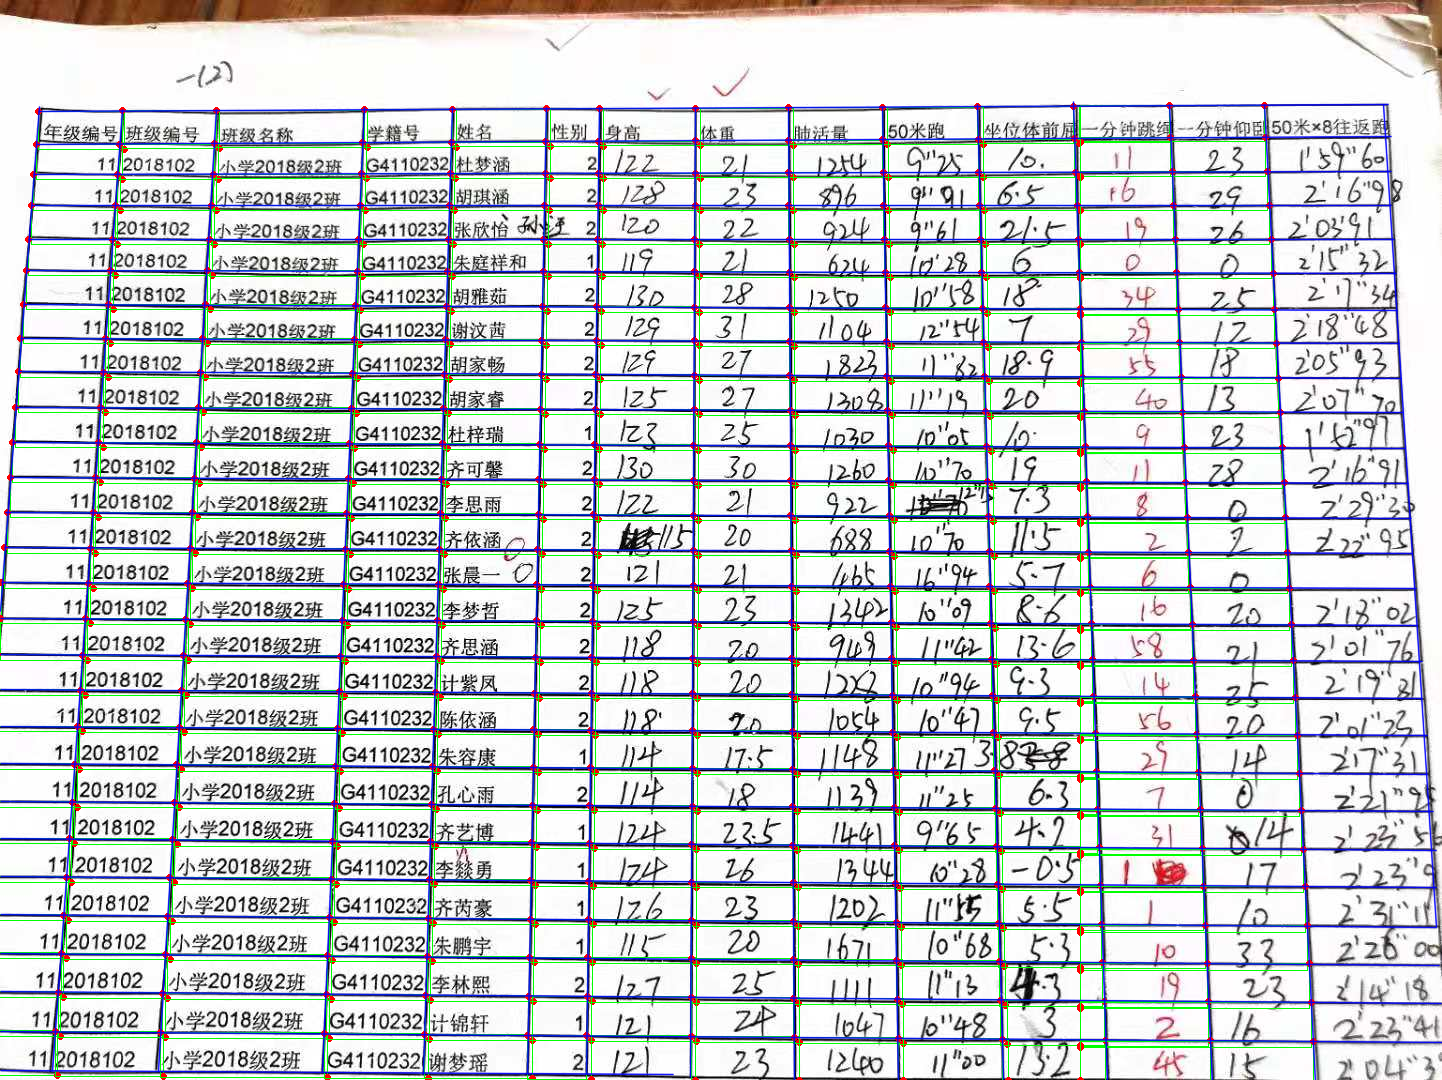
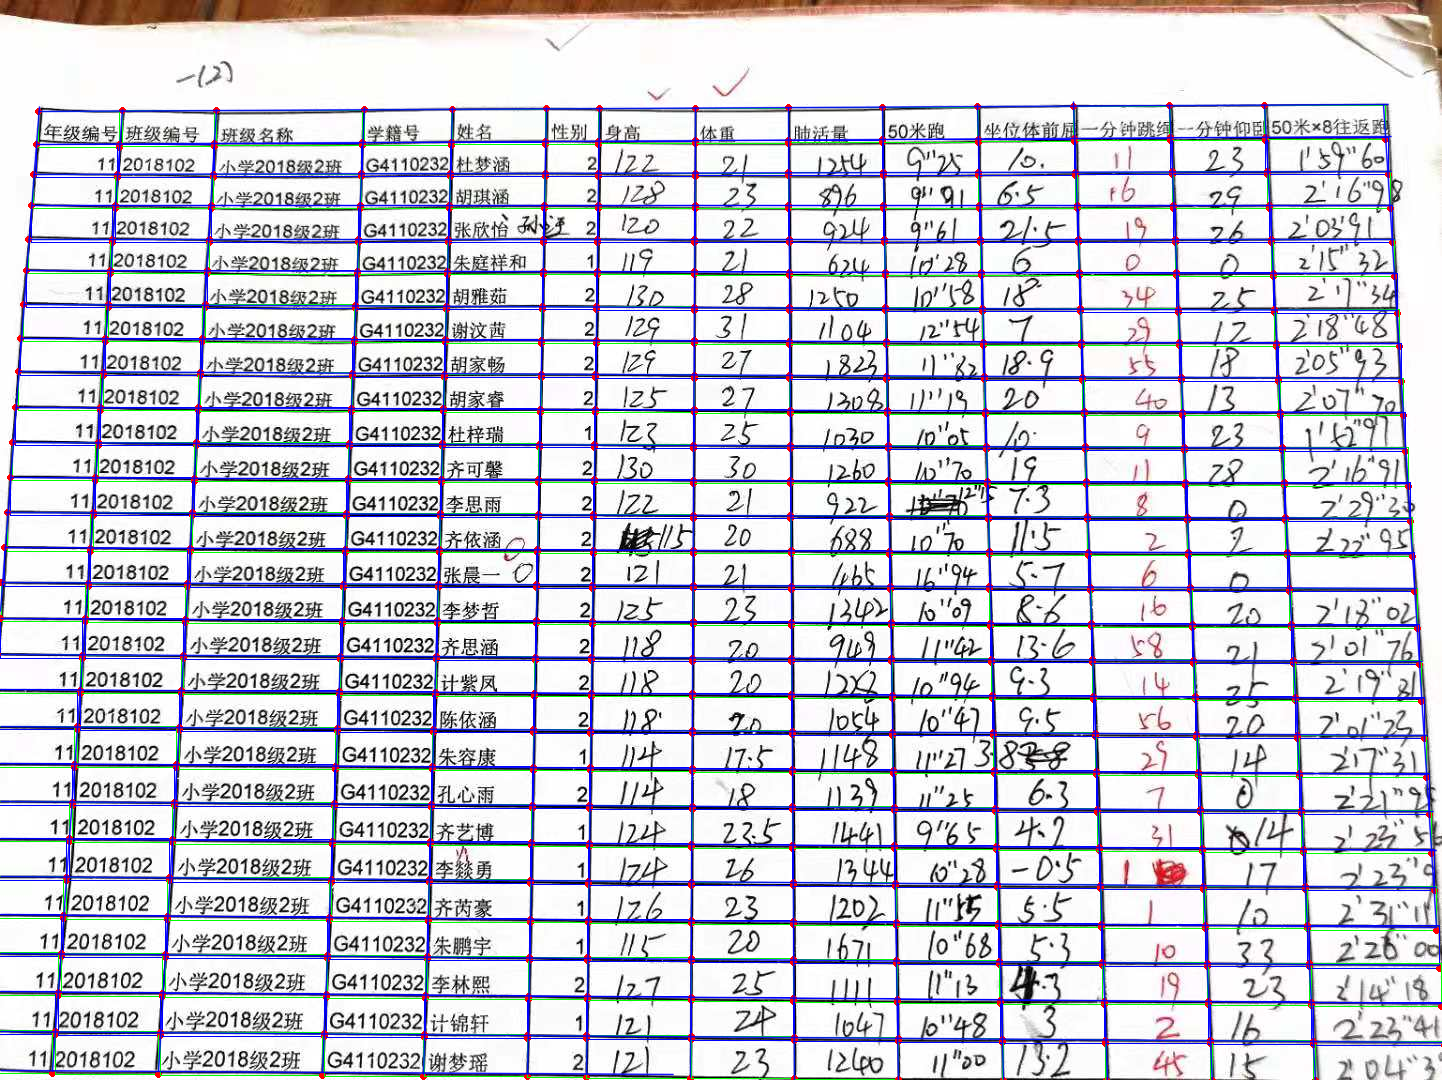
color

diff --git a/table_line_create.py b/table_line_create.py
@@ -105,8 +105,8 @@ def get_rect(intersection_points, y_max, x_max, rows, cols):
     rects = [[0] * (cols - 1) for _ in range(rows - 1)]
     for i in range(len(rects)):
         for j in range(len(rects[0])):
-            leftdown = [v+3 if v+3 <= y_max else y_max for v in res[i + 1][j]]
-            rightdown = [v+5 if v+5 <= y_max else y_max for v in res[i + 1][j+1]]
+            leftdown = [res[i + 1][j][0], res[i + 1][j][1]+3 if res[i + 1][j][1]+3 <= y_max else y_max]
+            rightdown = [res[i + 1][j+1][0], res[i + 1][j+1][1]+3 if res[i + 1][j+1][1]+3 <= y_max else y_max]
             tmp = [res[i][j], res[i][j + 1], leftdown, rightdown]
             rects[i][j] = tmp
 
@@ -122,9 +122,13 @@ def image2box(img_path):
     image_h, image_w = img.shape[:2]
     rects = get_rect(intersection_points, image_h, image_w, len(rowboxes), len(colboxes))
 
-    for rec in rects:
+    for k, rec in enumerate(rects):
         for p in rec:
-            cv2.rectangle(img2, (int(p[0][0]), int(p[0][1])), (int(p[3][0]), int(p[3][1])), (0, 255, 0), 1)
+            if k % 2 == 0:
+                cv2.rectangle(img2, (int(p[0][0]), int(p[0][1])), (int(p[3][0]), int(p[3][1])), (0, 255, 0), 1)
+            else:
+                cv2.rectangle(img2, (int(p[0][0]), int(p[0][1])), (int(p[3][0]), int(p[3][1])), (255, 0, 0), 1)
+
             cv2.circle(img2, (int(p[0][0]), int(p[0][1])), radius=2, color=(0, 0, 255), thickness=2)
             cv2.circle(img2, (int(p[3][0]), int(p[3][1])), radius=2, color=(0, 0, 255), thickness=2)
 
